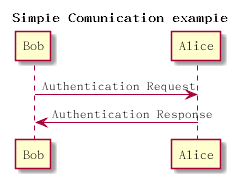
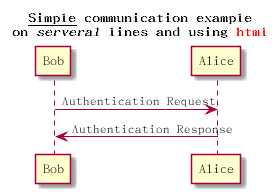
plantuml28 29

diff --git a/draw/plantuml.md b/draw/plantuml.md
@@ -247,11 +247,21 @@ Bob <- Alice : Yet Another authentication Response
 ### 标题 ###
 
 要给图形加一个标题可以用 title 关键字来设置.
+在标题中可以使用 creole 格式, 并使用 \n 字符来换行.
+也可以使用 title 和 end title 关键字来定义多行的标题.
+
 
 将以下内容保存为 [plantuml12](https://github.com/lsytj0413/learn-note/blob/master/draw/plantuml/plantuml12.pum):
 
 ```
-title Simple Comunication example
+/' title Simple Comunication example '/
+
+/' title __Simple__ **communication** example \n newline'/
+
+title
+__Simple__ communication example
+on <i>serveral</i> lines and using <font color=red>html</font>
+end title
 
 Bob -> Alice : Authentication Request
 Bob <- Alice : Authentication Response
@@ -682,3 +692,51 @@ Bob x<-]
 生成的效果图如下:
 
 ![plantuml27.png](https://github.com/lsytj0413/learn-note/blob/master/draw/plantuml/plantuml27.png)
+
+### 模板信息 ###
+
+可以使用 << 和 >> 字符来指定一些模板的信息, 并且可以使用 (X, color) 形式来指定颜色.
+可以通过 guillemet 字符来指定模板信息的包围符号.
+
+将以下内容保存为 [plantuml28](https://github.com/lsytj0413/learn-note/blob/master/draw/plantuml/plantuml28.pum):
+
+```
+@startuml
+
+skinparam guillemet false
+
+participant "Famous Bob" as Bob << Generated >>
+participant Alice << (C,#ADD1B2) Testable >>
+Bob -> Alice: First message
+
+@enduml
+```
+
+生成的效果图如下:
+
+![plantuml28.png](https://github.com/lsytj0413/learn-note/blob/master/draw/plantuml/plantuml28.png)
+
+### 参与者组合 ###
+
+可以使用 box 和 end box 关键字将多个参与者绘制到一个矩形中.
+
+将以下内容保存为 [plantuml29](https://github.com/lsytj0413/learn-note/blob/master/draw/plantuml/plantuml29.pum):
+
+```
+@startuml
+
+box "Internal Service" #LightBlue
+participant Bob
+participant Alice
+end box
+participant Other
+
+Bob -> Alice: hello
+Alice -> Other: hello
+
+@enduml
+```
+
+生成的效果图如下:
+
+![plantuml29.png](https://github.com/lsytj0413/learn-note/blob/master/draw/plantuml/plantuml29.png)
